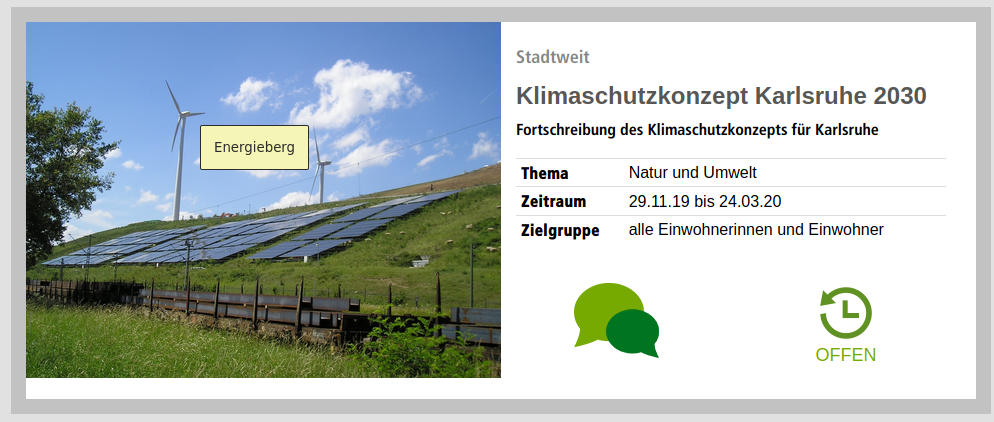
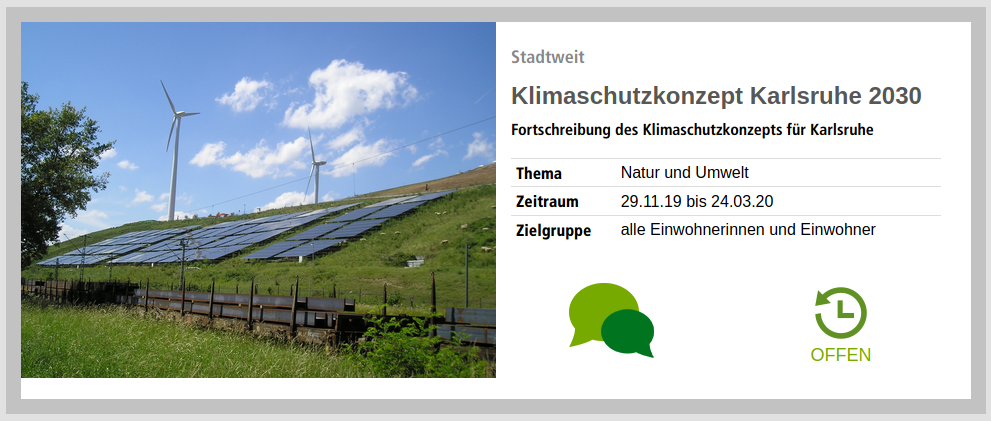
image caption update

diff --git a/themes/hugo-cfg/assets/fresh/partials/_responsive.scss b/themes/hugo-cfg/assets/fresh/partials/_responsive.scss
@@ -39,6 +39,18 @@ Responsive Styles
     .testimonial {
         margin: 0 auto;
     }
+
+	.figcaption {
+		position:absolute;
+		bottom:-1em;
+		left:0;
+		width:100%;
+		font-size:60%;
+		background:#444f60;
+		color:white;
+	}
+
+
 }
 
 

diff --git a/themes/hugo-cfg/assets/fresh/partials/_content.scss b/themes/hugo-cfg/assets/fresh/partials/_content.scss
@@ -57,7 +57,6 @@
 .figcaption {
 	position:absolute;
 	bottom:-1em;
-	font-size:90%;
 	left:5%;
 	width:90%;
 	font-size:90%;

diff --git a/content/en/projekte/2020-01-31-rogl.md b/content/en/projekte/2020-01-31-rogl.md
@@ -2,6 +2,7 @@
 layout: project
 lab: OK Lab Karlsruhe #needed for Aggregation on Lab-Page
 imgname: karlsruhe/rogl-bmi.png
+imgcaption: "Foto: Bundesministerium des Innern, für Bau und Heimat"
 title: ROGL - Regional Open Government Labs
 showcase: 1
 status: Laufend
@@ -13,8 +14,13 @@ collaborators:
   - name: Michael Riedmüller
 
 
+links:
+  - name: BMI
+    url: https://www.bmi.bund.de/SharedDocs/pressemitteilungen/DE/2019/09/open-government-labore.html
+
+
 ---
 
-In 2020, the Federal Ministry of the Interior is planning an initiative for [Regional Open Government Laboratories] (https://www.bmi.bund.de/SharedDocs/pressemitteilungen/DE/2019/09/open-government-labore). html) (* ROGL *). In up to 16 laboratories, new collaborations between administration, politics, citizens and social interest groups are to be tested. The BMI is funding the initiative with 3 million euros. The goal is better participation of all population groups in regional development and a more open culture of discussion, participation and disputes between local politics and administration as well as citizens, external partners and stakeholders.
+In 2020, the Federal Ministry of the Interior is planning an initiative for [Regional Open Government Laboratories](https://www.bmi.bund.de/SharedDocs/pressemitteilungen/DE/2019/09/open-government-labore.html) (*ROGL*). In up to 16 laboratories, new collaborations between administration, politics, citizens and social interest groups are to be tested. The BMI is funding the initiative with 3 million euros. The goal is better participation of all population groups in regional development and a more open culture of discussion, participation and disputes between local politics and administration as well as citizens, external partners and stakeholders.
 
 We participate in the application process with the city of Karlsruhe and other partners.

diff --git a/content/en/projekte/2020-01-21-klimakonzept.md b/content/en/projekte/2020-01-21-klimakonzept.md
@@ -2,6 +2,7 @@
 layout: project
 lab: OK Lab Karlsruhe #needed for Aggregation on Lab-Page
 imgname: karlsruhe/klimakonzept.png
+imgcaption: "Foto: Stadt Karlsruhe"
 title: Climate Protection Plan Karlsruhe
 showcase: 1
 status: Laufend
@@ -19,6 +20,6 @@ links:
 
 ---
 
-The city of Karlsruhe presented the draft of the 2030 climate protection concept to the population in a [participation process] (https://beteiligung.karlsruhe.de/content/bbv/details/90/).
+The city of Karlsruhe presented the draft of the 2030 climate protection concept to the population in a [participation process](https://beteiligung.karlsruhe.de/content/bbv/details/90/).
 We want to support and improve the associated calculation models and the progress of the measures in a public process.
 

diff --git a/content/de/projekte/2020-01-31-rogl.md b/content/de/projekte/2020-01-31-rogl.md
@@ -2,7 +2,7 @@
 layout: project
 lab: OK Lab Karlsruhe #needed for Aggregation on Lab-Page
 imgname: karlsruhe/rogl-bmi.png
-imgcaption: https://www.bmi.bund.de/SharedDocs/pressemitteilungen/DE/2019/09/open-government-labore.html
+imgcaption: "Foto: Bundesministerium des Innern, für Bau und Heimat"
 title: ROGL - Regionale Open Government Labore
 showcase: 1
 status: Laufend
@@ -13,6 +13,9 @@ collaborators:
   - name: Josef Attmann
   - name: Michael Riedmüller
 
+links:
+  - name: BMI
+    url: https://www.bmi.bund.de/SharedDocs/pressemitteilungen/DE/2019/09/open-government-labore.html
 
 ---
 

diff --git a/content/de/projekte/2019-06-01-transparenzcafe.md b/content/de/projekte/2019-06-01-transparenzcafe.md
@@ -2,6 +2,7 @@
 layout: project
 lab: OK Lab Karlsruhe #needed for Aggregation on Lab-Page
 imgname: karlsruhe/tcafe.jpg
+imgcaption: "© ZKM | Zentrum für Kunst und Medien, Foto: Tanja Meissner"
 title: Transparenz.Cafe
 showcase: 1
 status: Laufend

diff --git a/content/en/projekte/2019-06-01-transparenzcafe.md b/content/en/projekte/2019-06-01-transparenzcafe.md
@@ -2,6 +2,7 @@
 layout: project
 lab: OK Lab Karlsruhe #needed for Aggregation on Lab-Page
 imgname: karlsruhe/tcafe.jpg
+imgcaption: "© ZKM | Zentrum für Kunst und Medien, Foto: Tanja Meissner"
 title: Transparenz.Cafe
 showcase: 1
 status: Laufend

diff --git a/content/de/projekte/2020-01-21-klimakonzept.md b/content/de/projekte/2020-01-21-klimakonzept.md
@@ -2,6 +2,7 @@
 layout: project
 lab: OK Lab Karlsruhe #needed for Aggregation on Lab-Page
 imgname: karlsruhe/klimakonzept.png
+imgcaption: "Foto: Stadt Karlsruhe"
 title: Klimakonzept Karlsruhe
 showcase: 1
 status: Laufend
